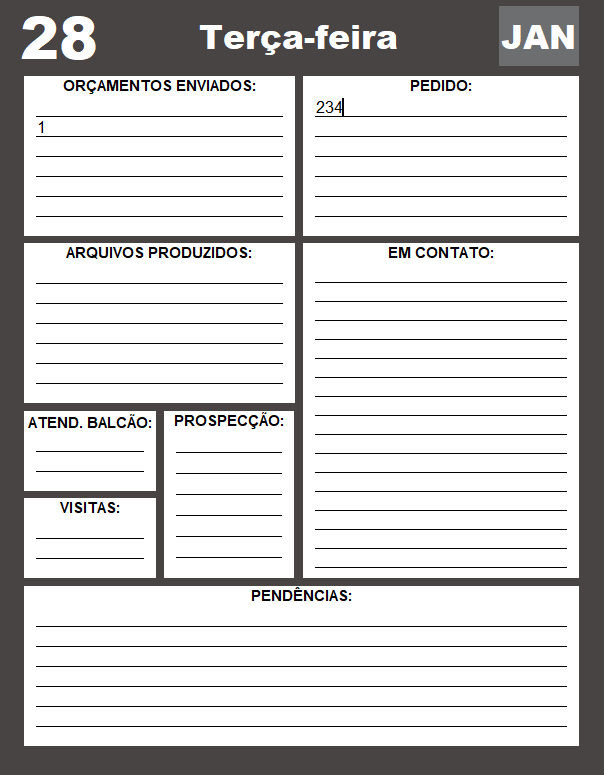
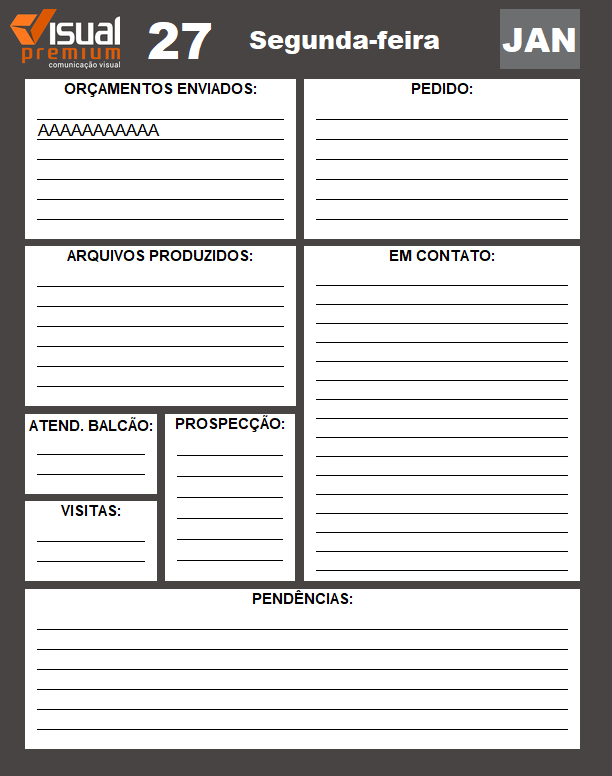
Atualizações
- Logo
- Correção do exportar

Changed region(s): [[0.0, 0.0, 0.9834, 0.96]]

diff --git a/main.py b/main.py
@@ -9,6 +9,7 @@ from reportlab.pdfgen import canvas
 import numpy as np
 import cv2
 import json
+from PIL import Image, ImageTk
 
 # Configura a localidade para português
 locale.setlocale(locale.LC_TIME, 'pt_BR.UTF-8')
@@ -269,7 +270,7 @@ def export_agenda_to_pdf():
         min_val, max_val, min_loc, max_loc = cv2.minMaxLoc(result)
 
         # Se a correspondência for forte o suficiente, encontrar a posição da agenda
-        if max_val >= 0.9:
+        if max_val >= 0.6:
             agenda_region_tuple = (max_loc[0], max_loc[1], agenda_width, agenda_height)
         else:
             messagebox.showerror("Erro", "Não foi possível localizar a agenda na tela. Verifique se ela está visível.")
@@ -302,6 +303,21 @@ def export_agenda_to_pdf():
     except Exception as e:
         messagebox.showerror("Erro", f"Erro ao exportar a agenda: {e}")
 
+# Função para carregar e redimensionar a imagem
+def carregar_imagem():
+    try:
+        # Abre a imagem original
+        original_image = Image.open("logo.png")
+        # Redimensiona a imagem
+        nova_largura, nova_altura = 110, 60
+        resized_image = original_image.resize((nova_largura, nova_altura), Image.LANCZOS)
+        # Converte a imagem para o formato do Tkinter
+        logo_image = ImageTk.PhotoImage(resized_image)
+        return logo_image
+    except Exception as e:
+        print(f"Erro ao carregar a imagem: {e}")
+        return None
+
 def main():
     global root, agenda_frame
     root = tk.Tk()
@@ -315,6 +331,12 @@ def main():
     # Criar um frame para a agenda
     agenda_frame = tk.Frame(root, bg="#484444")
     agenda_frame.place(x=0, y=0, width=600, height=800)
+    
+    # Carregar e exibir a imagem
+    logo_image = carregar_imagem()
+    if logo_image:
+        logo_label = tk.Label(root, image=logo_image, bd=0, highlightthickness=0)  # Remover bordas
+        logo_label.place(x=10, y=10)  # Altere x e y conforme necessário
 
     # Obter data atual
     today = datetime.today()
@@ -323,10 +345,10 @@ def main():
     month = today.strftime("%b").upper()  # Mês abreviado em português
 
     # Cabeçalho dinâmico
-    tk.Label(agenda_frame, text=str(day_number), bg="#484444", fg="white", font=("Arial Black", 35, "bold")).place(x=20, y=10, width=80, height=60)
+    tk.Label(agenda_frame, text=str(day_number), bg="#484444", fg="white", font=("Arial Black", 30, "bold")).place(x=140, y=10, width=80, height=60)
 
-    weekday_label = tk.Label(agenda_frame, text=weekday, bg="#484444", fg="white", font=("Arial Black", 20))
-    weekday_label.place(x=120, y=20, width=360, height=40)
+    weekday_label = tk.Label(agenda_frame, text=weekday, bg="#484444", fg="white", font=("Arial Black", 15))
+    weekday_label.place(x=215, y=20, width=260, height=40)
 
     tk.Label(agenda_frame, text=month, bg="#6d6e70", fg="#ffffff", font=("Arial Black", 20, "bold")).place(x=500, y=10, width=80, height=60)
 
